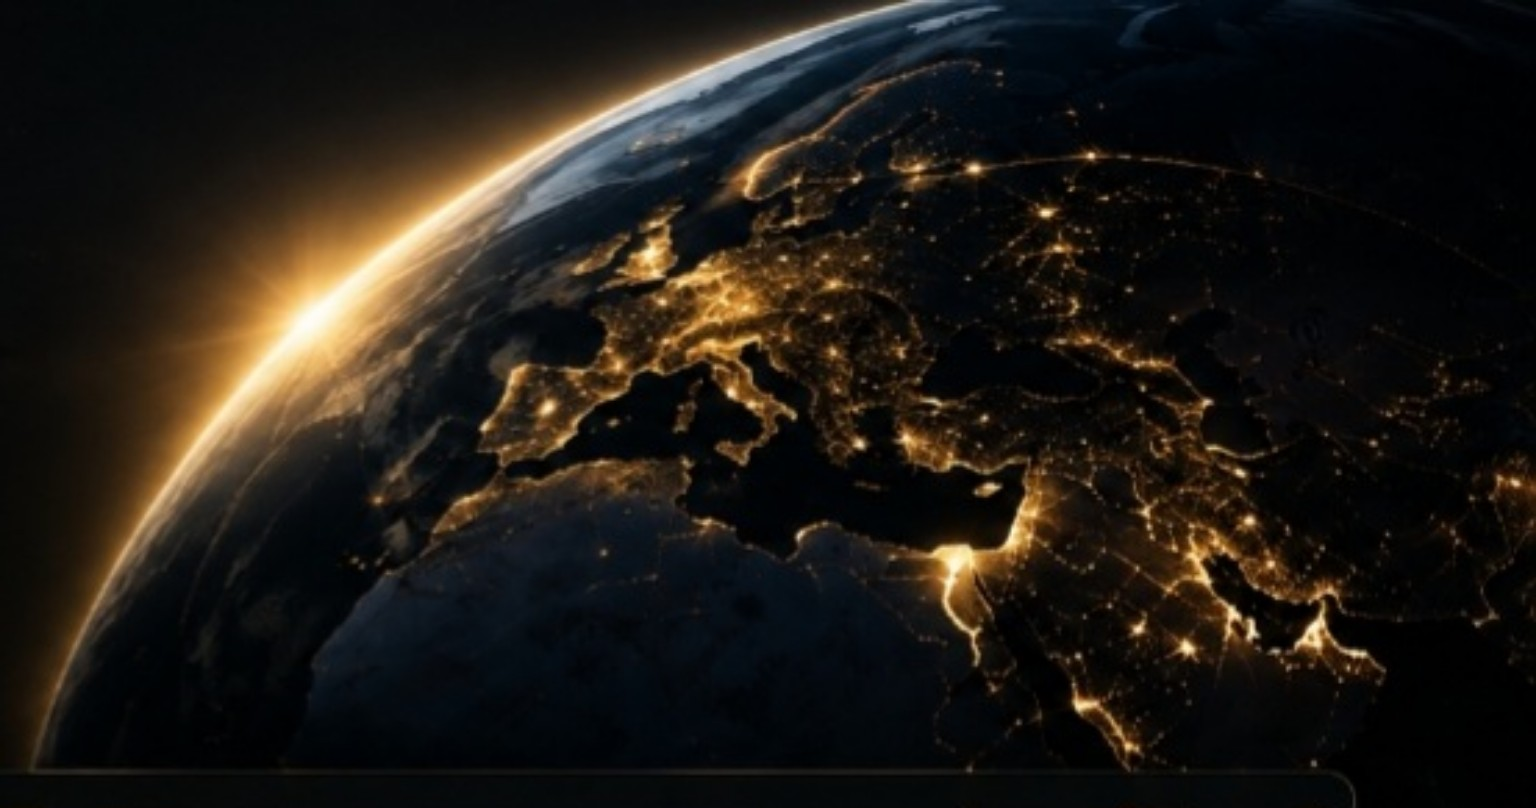
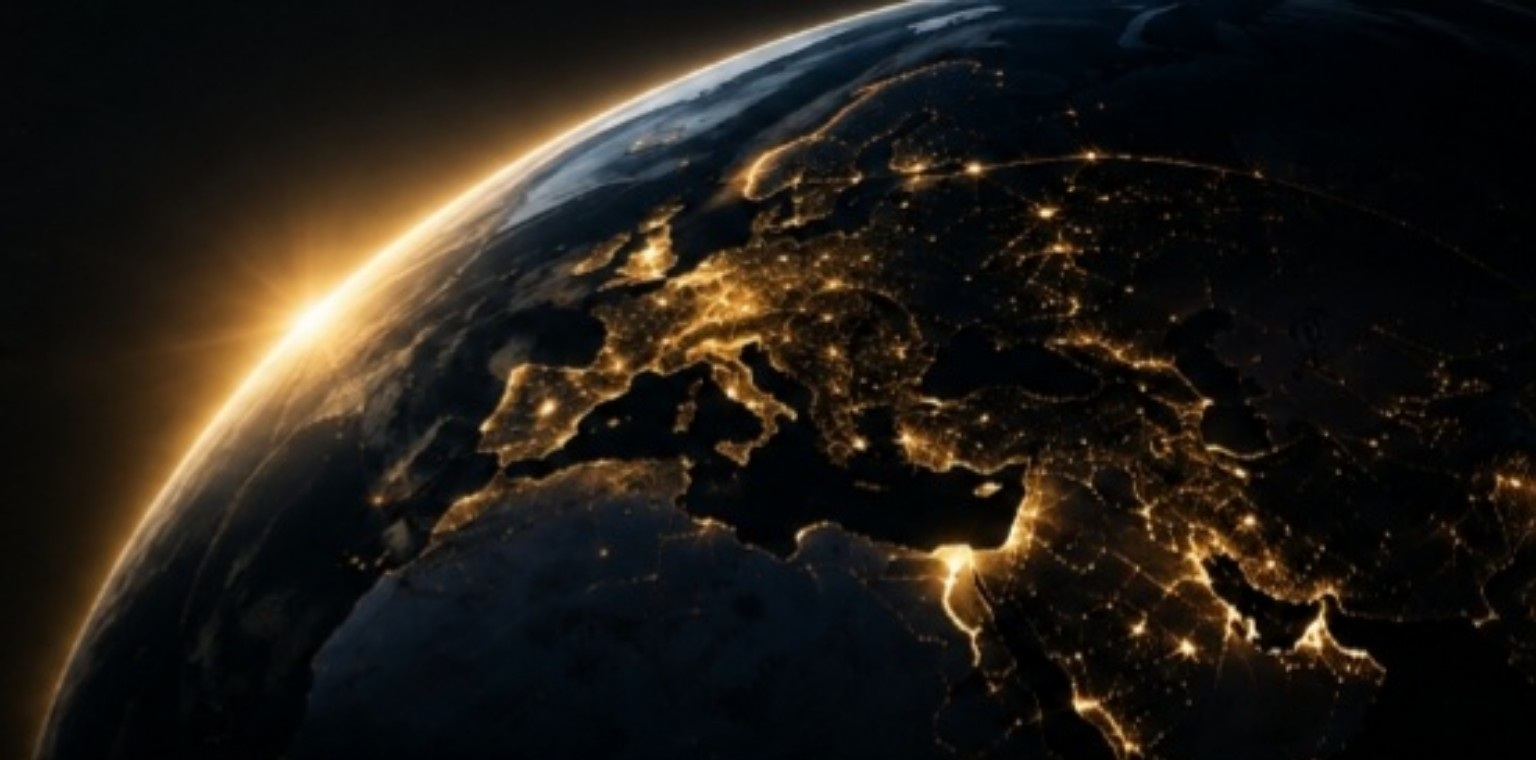
Add files via upload

diff --git a/style.css b/style.css
@@ -644,122 +644,85 @@ html[dir="rtl"] .aboutReference .aboutHero .aboutLead{border-left:0;border-right
 .singleLineFooter .legalLinks button+button{border-left:1px solid #6d5b2b;}
 .singleLineFooter .footerDivider{width:1px;height:18px;background:#6d5b2b;flex:0 0 1px;}
 @media(max-width:980px){.singleLineFooter{flex-wrap:wrap;white-space:normal;justify-content:flex-start}.singleLineFooter .legalLinks{flex-wrap:wrap}.v49Hero .homeEarthStage{max-width:620px}.v49Hero .homeEarthStage img{max-width:none}}
-\n\n/* v67 — hero only: stronger copy + larger existing Earth image */\n.v49Hero{grid-template-columns:.88fr 1.12fr;gap:42px;}\n.v49Hero .heroNewHeadline{font-size:clamp(44px,5.25vw,72px);line-height:.96;max-width:650px;letter-spacing:-.045em;margin:18px 0 22px;}\n.v49Hero .heroNewHeadline span{display:block;}\n.v49Hero .heroNewCopy{font-size:18px;line-height:1.48;max-width:620px;color:#b7b2a7;}\n.v49Hero .heroNewCopy strong{color:#f2eee5;font-weight:750;}\n.v49Hero .homeEarthStage{margin-right:-7vw;border-color:transparent;background:transparent;border-radius:0;overflow:visible;}\n.v49Hero .homeEarthStage img{width:118%;max-width:none;aspect-ratio:auto;object-fit:contain;border-radius:0;filter:drop-shadow(0 24px 60px rgba(0,0,0,.72));}\n@media(max-width:980px){.v49Hero{grid-template-columns:1fr;gap:28px}.v49Hero .homeEarthStage{margin-right:0;max-width:760px;overflow:hidden;border-radius:24px}.v49Hero .homeEarthStage img{width:100%;}.v49Hero .heroNewHeadline{font-size:clamp(40px,9vw,62px)}}\n@media(max-width:720px){.v49Hero .heroNewHeadline{font-size:clamp(38px,11vw,52px)}.v49Hero .heroNewCopy{font-size:16px}.v49Hero .homeEarthStage img{max-width:none;height:auto}}\n
-/* v68 — HERO VISUAL ONLY. Keep all existing page structure and behavior unchanged. */
-@media (min-width:981px){
-  .v49Hero{
-    grid-template-columns:.82fr 1.18fr;
-    gap:28px;
-  }
-  .v49Hero .heroNewHeadline{
-    font-size:clamp(34px,3.35vw,52px);
-    line-height:1.06;
-    max-width:610px;
-    letter-spacing:-.035em;
-    margin:16px 0 22px;
-  }
-  .v49Hero .heroNewCopy{
-    font-size:17px;
-    line-height:1.5;
-    max-width:590px;
-  }
-  .v49Hero .homeEarthStage{
-    padding:0;
-    margin-right:-13vw;
-    margin-left:-2vw;
-    border:0;
-    outline:0;
-    box-shadow:none;
-    background:transparent;
-    border-radius:0;
-    overflow:visible;
-  }
-  .v49Hero .homeEarthStage:before{display:none!important;}
-  .v49Hero .homeEarthStage img{
-    display:block;
-    width:148%;
-    max-width:none;
-    height:auto;
-    aspect-ratio:auto;
-    object-fit:contain;
-    border:0;
-    outline:0;
-    border-radius:0;
-    box-shadow:none;
-    filter:none;
-    transform:translateX(-3%);
-  }
-}
-@media (max-width:980px){
-  .v49Hero .homeEarthStage{
-    padding:0;
-    border:0;
-    outline:0;
-    box-shadow:none;
-    background:transparent;
-    border-radius:0;
-  }
-  .v49Hero .homeEarthStage:before{display:none!important;}
-  .v49Hero .homeEarthStage img{
-    border:0;
-    outline:0;
-    border-radius:0;
-    box-shadow:none;
-    filter:none;
-  }
-}
 
-/* v69 — requested hero correction only: smaller copy + large borderless Earth */
-@media (min-width:981px){
-  .v49Hero{
-    grid-template-columns:minmax(0,.82fr) minmax(0,1.18fr);
-    gap:18px;
-    overflow:visible;
-  }
-  .v49Hero .heroNewHeadline{
-    font-size:clamp(31px,2.75vw,44px)!important;
-    line-height:1.08!important;
-    max-width:570px!important;
-    letter-spacing:-.025em!important;
-  }
-  .v49Hero .heroNewCopy{
-    font-size:16px!important;
-    line-height:1.48!important;
-    max-width:560px!important;
-  }
-  .v49Hero .homeEarthStage{
-    align-self:stretch;
-    min-height:560px;
-    width:calc(100% + 12vw);
-    margin:0 -12vw 0 -2vw!important;
-    padding:0!important;
-    border:0!important;
-    outline:0!important;
-    border-radius:0!important;
-    box-shadow:none!important;
-    background:transparent!important;
-    overflow:hidden!important;
-    position:relative;
-  }
-  .v49Hero .homeEarthStage:before{display:none!important;content:none!important;}
-  .v49Hero .homeEarthStage img{
-    position:absolute;
-    inset:0;
-    width:100%!important;
-    height:100%!important;
-    max-width:none!important;
-    object-fit:cover!important;
-    object-position:center center!important;
-    transform:scale(1.42)!important;
-    transform-origin:center center;
-    border:0!important;
-    outline:0!important;
-    border-radius:0!important;
-    box-shadow:none!important;
-    filter:none!important;
-  }
+/* v70 — exact approved hero treatment only */
+#home .v49Hero{
+  grid-template-columns:minmax(0, .78fr) minmax(0, 1.22fr);
+  gap:28px;
+  min-height:590px;
+  padding:52px 0 38px;
+  overflow:visible;
 }
-@media (max-width:980px){
-  .v49Hero .homeEarthStage{overflow:hidden!important;border:0!important;border-radius:0!important;background:transparent!important;box-shadow:none!important;}
-  .v49Hero .homeEarthStage img{width:100%!important;max-width:none!important;border:0!important;border-radius:0!important;box-shadow:none!important;}
+#home .v49Hero .heroCopy{position:relative;z-index:2;align-self:center}
+#home .v49Hero .heroMessage{
+  font-size:clamp(34px,3.25vw,50px) !important;
+  line-height:1.05 !important;
+  letter-spacing:-.035em !important;
+  max-width:610px !important;
+  margin:16px 0 22px !important;
+  text-transform:none;
+}
+#home .v49Hero .heroMessage span{display:block}
+#home .v49Hero .heroMessage em{font-style:normal;color:var(--gold2)}
+#home .v49Hero .heroAudience{
+  font-size:17px !important;
+  line-height:1.5 !important;
+  max-width:610px !important;
+  margin:0 !important;
+  color:#b7b2a7 !important;
+}
+#home .v49Hero .heroPromise{
+  font-size:17px !important;
+  line-height:1.5 !important;
+  max-width:610px !important;
+  margin:18px 0 0 !important;
+  color:#d1ccc1 !important;
+}
+#home .v49Hero .heroPromise strong{color:#f2efe7}
+#home .v49Hero .homeEarthStage{
+  position:relative;
+  align-self:stretch;
+  width:calc(100% + 9vw);
+  min-height:560px;
+  margin-right:-9vw;
+  padding:0 !important;
+  border:0 !important;
+  border-radius:0 !important;
+  background:transparent !important;
+  overflow:hidden;
+  box-shadow:none !important;
+}
+#home .v49Hero .homeEarthStage:before{display:none !important}
+#home .v49Hero .homeEarthStage img{
+  position:absolute;
+  inset:0;
+  width:100% !important;
+  height:100% !important;
+  max-width:none !important;
+  max-height:none !important;
+  aspect-ratio:auto !important;
+  object-fit:cover !important;
+  object-position:48% center;
+  border:0 !important;
+  border-radius:0 !important;
+  box-shadow:none !important;
+  filter:none !important;
+}
+#home .v49Hero .homeEarthStage:after{
+  content:"";
+  position:absolute;
+  inset:0;
+  background:linear-gradient(90deg,#070707 0%,rgba(7,7,7,.76) 8%,rgba(7,7,7,.18) 24%,transparent 42%);
+  pointer-events:none;
+}
+@media(max-width:900px){
+  #home .v49Hero{grid-template-columns:1fr;gap:20px;min-height:auto}
+  #home .v49Hero .heroCopy{order:1}
+  #home .v49Hero .homeEarthStage{order:2;width:100%;min-height:340px;margin:0}
+  #home .v49Hero .homeEarthStage:after{background:linear-gradient(180deg,#070707 0%,rgba(7,7,7,.18) 18%,transparent 40%)}
+}
+@media(max-width:620px){
+  #home .v49Hero .heroMessage{font-size:clamp(31px,9.4vw,42px) !important}
+  #home .v49Hero .heroAudience,#home .v49Hero .heroPromise{font-size:15px !important}
+  #home .v49Hero .homeEarthStage{min-height:260px}
 }

diff --git a/index.html b/index.html
@@ -58,8 +58,9 @@
       <div class="hero resourceHero v49Hero">
         <div class="heroCopy">
           <span class="eyebrow" data-ui-key="THE LOGISTICS MARKETPLACE">THE LOGISTICS MARKETPLACE</span>
-          <h1 class="heroNewHeadline"><span>TURN UNUSED INTO OPPORTUNITY.</span><span class="goldText">MOVE WHAT NEEDS TO MOVE.</span></h1>
-          <p class="heroNewCopy">Drivers, trucks, trailers, loads and warehouse space —<br><strong>one marketplace built for all of logistics.</strong><br><br>Find what you need. Offer what you have.<br><strong>Connect. Agree. Move.</strong></p>
+          <h1 class="heroMessage"><span>Turn unused into <em>opportunity.</em></span><span>Move what needs to move.</span></h1>
+          <p class="heroAudience">Drivers, trucks, trailers, loads and warehouse space —<br>one marketplace built for all of logistics.</p>
+          <p class="heroPromise">Find what you need. Offer what you have.<br><strong>Connect. Agree. Move.</strong></p>
           <div class="heroActions">
             <button class="goldBtn" onclick="document.getElementById('startChoice')?.scrollIntoView({behavior:'smooth'})" data-ui-key="Start now">Start now</button>
             <button class="outlineBtn" onclick="openMarketCategory('')" data-ui-key="Browse market">Browse market</button>
